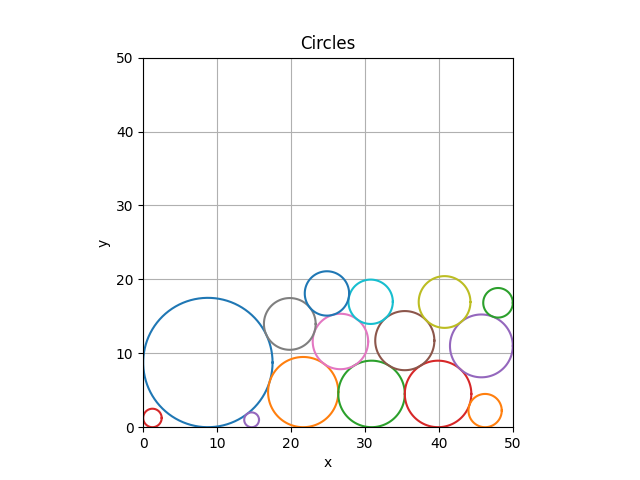
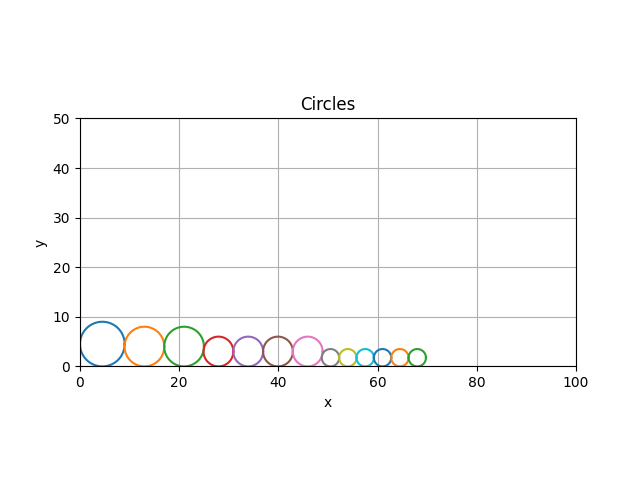
Added results pdf to download

diff --git a/pdmtools/sparevolumecalculator/templates/sparevolumecalculator/index.html b/pdmtools/sparevolumecalculator/templates/sparevolumecalculator/index.html
@@ -2,27 +2,27 @@
 
 {% block main %}
 <script type="text/javascript">
-    function createInputs() {
-      var numInputs = document.getElementById("numInputs").value;
-      var inputsDiv = document.getElementById("inputsDiv");
-      inputsDiv.innerHTML = "";
+function createInputs() {
+  var numInputs = document.getElementById("numInputs").value;
+  var inputsDiv = document.getElementById("inputsDiv");
+  inputsDiv.innerHTML = "";
 
-      for (var i = 0; i < numInputs; i++) {
-        var input = document.createElement("input");
-        input.type = "text";
-        input.name = "cable" + i;
-        input.placeholder = "cable " + (i+1);
-        inputsDiv.appendChild(input);
-        inputsDiv.appendChild(document.createElement("br"));
+  for (var i = 0; i < numInputs; i++) {
+    var input1 = document.createElement("input");
+    input1.type = "text";
+    input1.name = "cable" + i;
+    input1.placeholder = "cable " + (i+1);
+    inputsDiv.appendChild(input1);
 
-        input.type = "text";
-        input.name = "cable" + i;
-        input.placeholder = "cable " + (i+1);
-        inputsDiv.appendChild(input);
-        inputsDiv.appendChild(document.createElement("br"));
+    var input2 = document.createElement("input");
+    input2.type = "number";
+    input2.name = "number" + i;
+    input2.placeholder = "number " + (i+1);
+    inputsDiv.appendChild(input2);
 
-      }
-    }
+    inputsDiv.appendChild(document.createElement("br"));
+  }
+}
   </script>
   <form action="{% url 'sparevolumecalculator:results' %}", method="post">
     {% csrf_token %}
@@ -32,7 +32,7 @@
     <input type="number" id="numInputs" name="numCables" min="1" value="1" onchange="createInputs()">
     <br><br>
     <div id="inputsDiv">
-      <input type="text" name="cable0" placeholder="cable 1">
+
       <br>
     </div>
     <br>

diff --git a/pdmtools/sparevolumecalculator/templates/sparevolumecalculator/results.html b/pdmtools/sparevolumecalculator/templates/sparevolumecalculator/results.html
@@ -8,4 +8,5 @@
     <h1>Results</h1>
     <h3>The spare volume equals: {{  spare_volume  }}%</h3>
     <img src="{{ image_file }}" alt="My Figure">
+    <a href="/static/results.pdf" download>Download PDF</a>
 {% endblock %}

diff --git a/pdmtools/sparevolumecalculator/views.py b/pdmtools/sparevolumecalculator/views.py
@@ -4,6 +4,12 @@ from django.core.files.storage import FileSystemStorage
 from . import helpers
 from . import helpers2
 
+from reportlab.pdfgen import canvas
+from reportlab.lib.units import inch
+from reportlab.lib.pagesizes import letter
+from reportlab.lib import colors
+from reportlab.platypus import Paragraph, Image
+from reportlab.lib.styles import getSampleStyleSheet
 
 # Create your views here.
 def index(request):
@@ -23,7 +29,7 @@ def results(request):
 
         for i in range(numCables):
             cable = int(request.POST.get("cable"+str(i)))
-            cables.append(cable)
+            cables.extend([cable]*int(request.POST.get("number"+str(i))))
 
         cables = [d/2 for d in cables]
         cables = sorted(cables, reverse=True)
@@ -40,7 +46,27 @@ def results(request):
         '''
 
         helpers2.main_algorithm(cables, height, width)
-        
+        # Create a new PDF document
+        pdf = canvas.Canvas('sparevolumecalculator/static/results.pdf', pagesize=letter)
+        pdf.setFont("Helvetica-Bold", 40)
+        # Draw the title on the PDF document
+        pdf.drawString(250, 750, "Results")
+        # Define the text and image to include in the PDF
+        image = 'sparevolumecalculator/static/images/result.png'
+
+        # Set the position and size of the image
+        x = 1*inch
+        y = 1*inch
+        width = 6*inch
+        height = 4*inch
+
+        # Draw the text on the PDF document
+
+        # Draw the image on the PDF document
+        pdf.drawImage(image, x, y, width=width, height=height)
+
+        # Save the PDF document
+        pdf.save()
         return render(request, "sparevolumecalculator/results.html", {'image_file':'/static/images/result.png'})#, 'spare_volume':spare_volume})
 
 def documentation(request):
